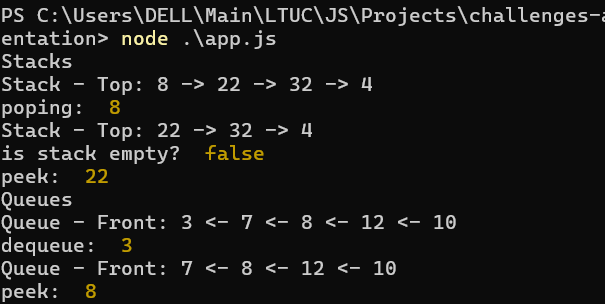
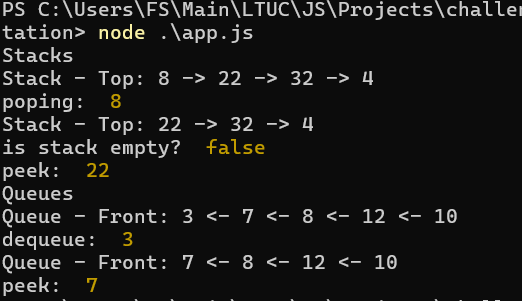
Stack-and-Queue-Implementation

diff --git a/Data-Structures/Stack-Queue/Stack-and-Queue-Implementation/app.js b/Data-Structures/Stack-Queue/Stack-and-Queue-Implementation/app.js
@@ -23,6 +23,6 @@ queue.enqueue(10);
 queue.printQueue();
 console.log("dequeue: ", queue.dequeue());
 queue.printQueue();
-console.log("peek: ", queue.front.next.data);
+console.log("peek: ", queue.peek());
 
 
